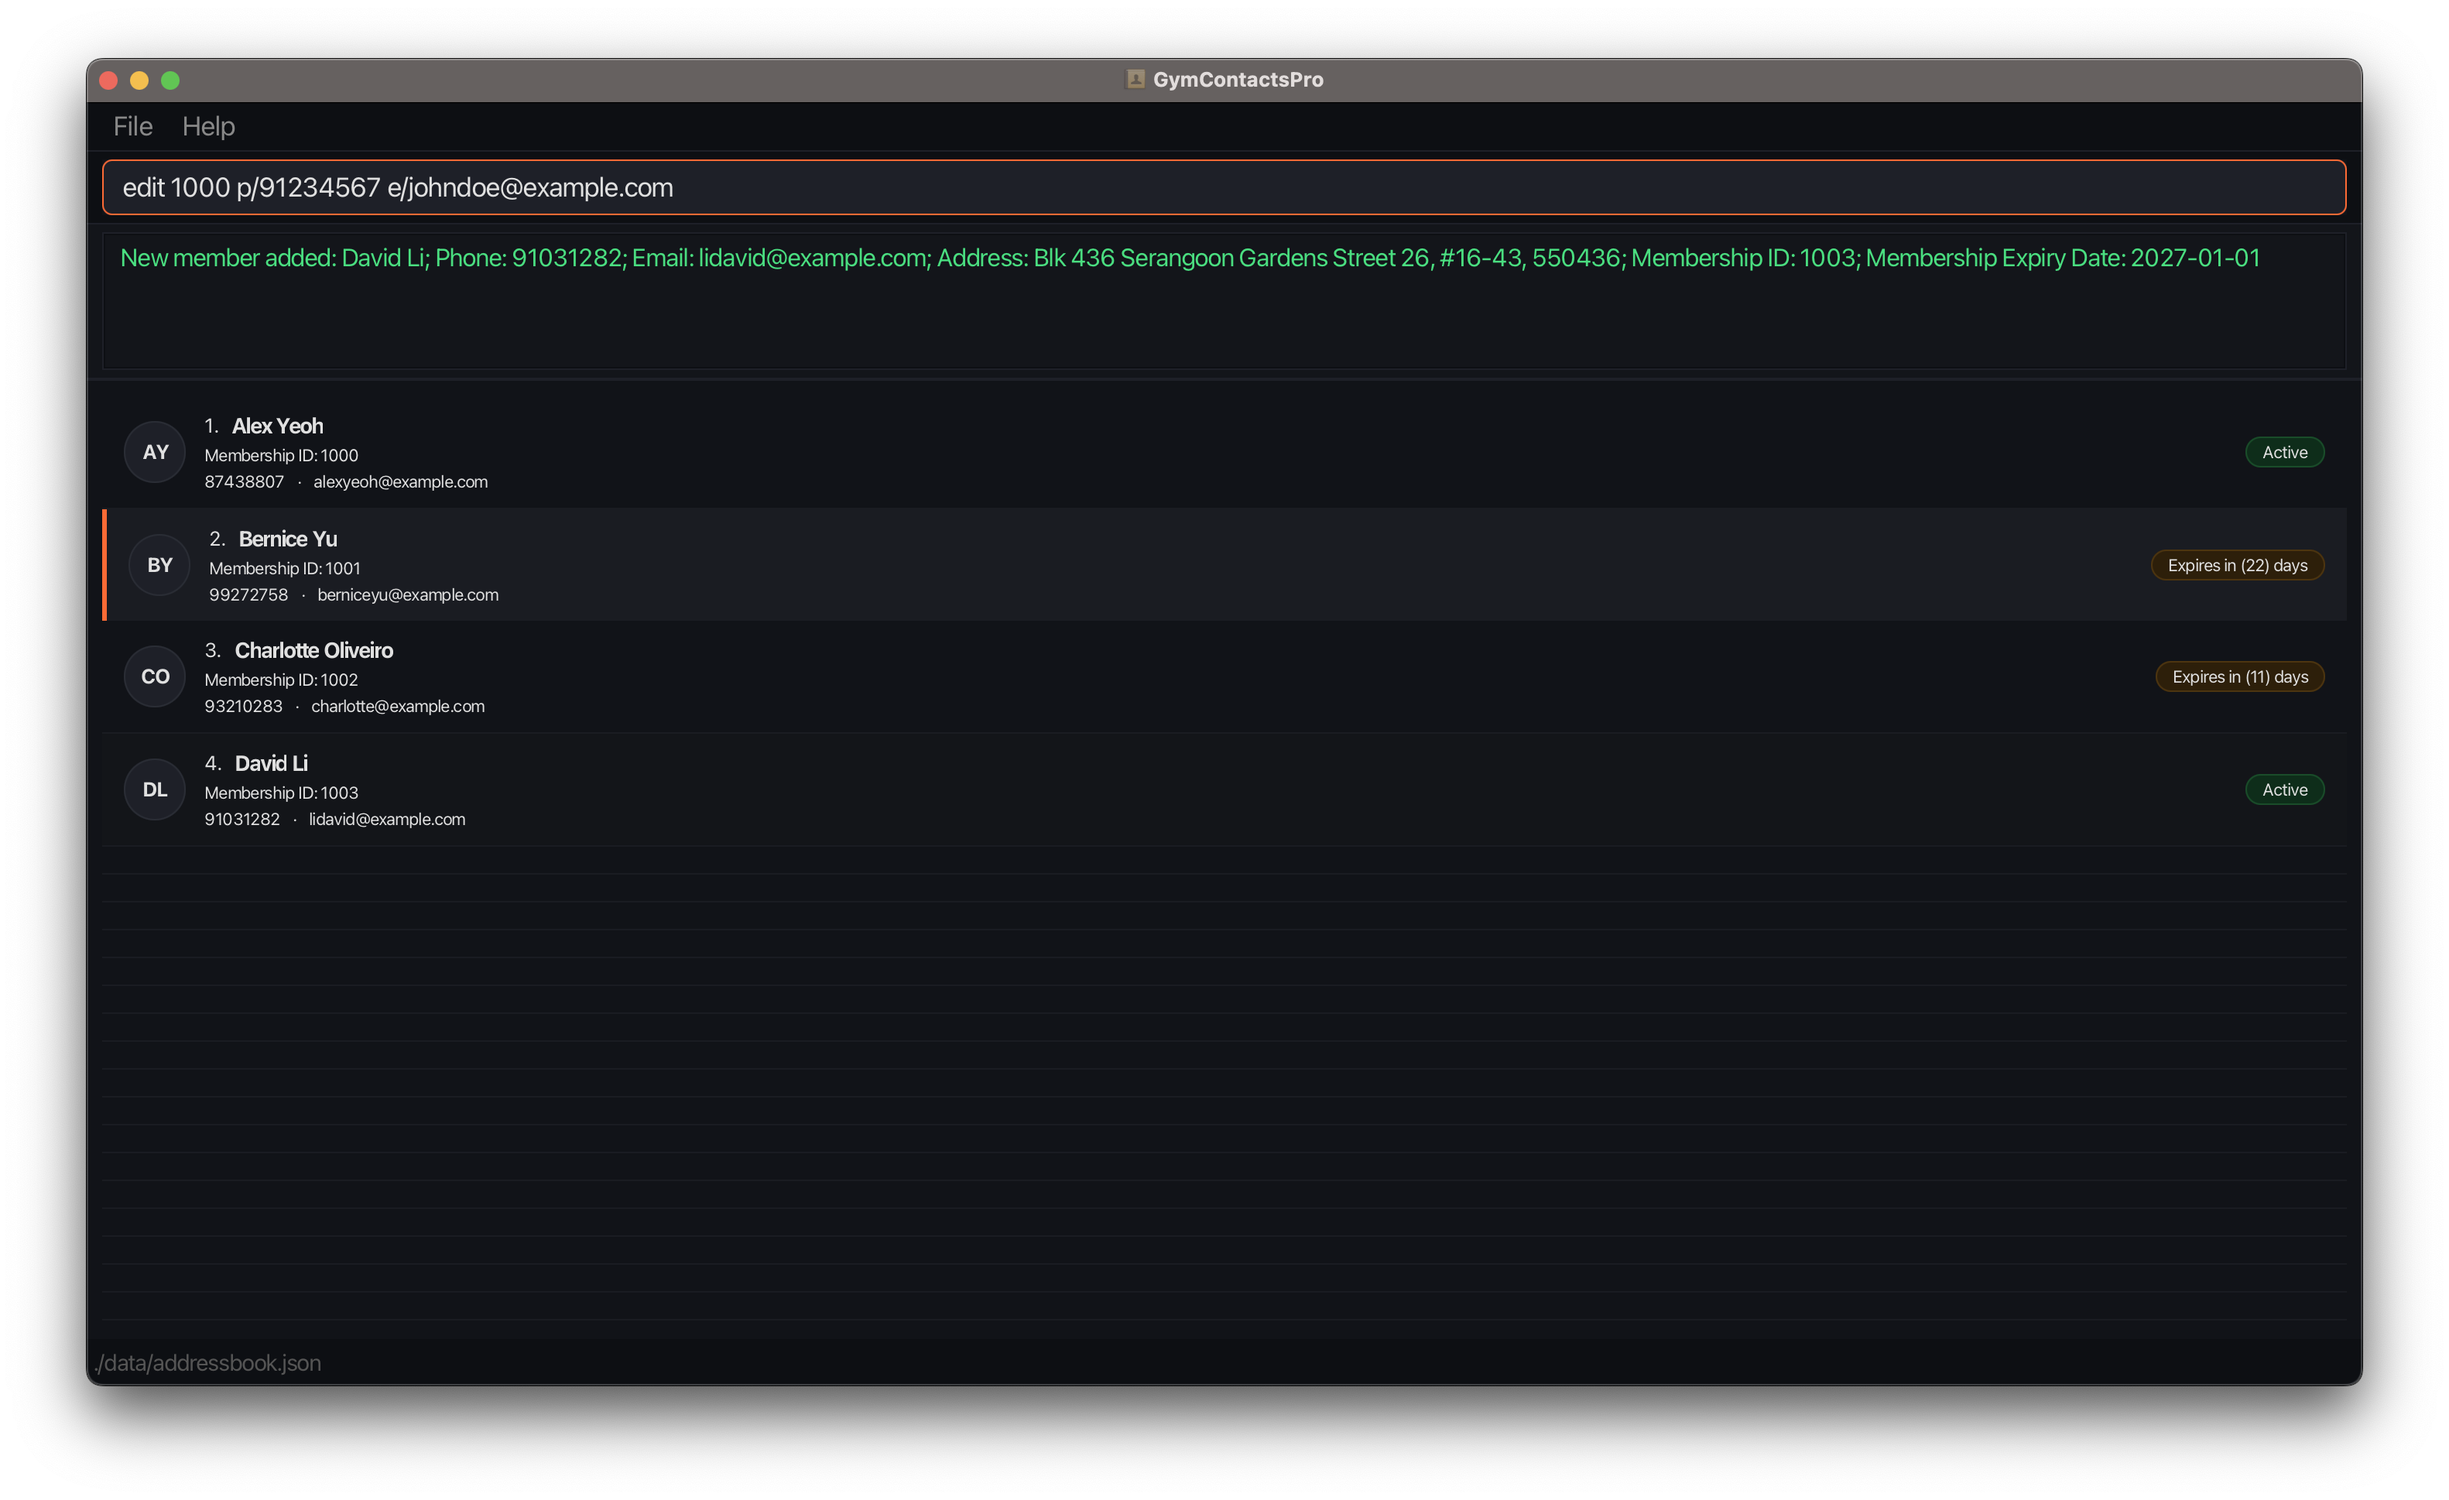
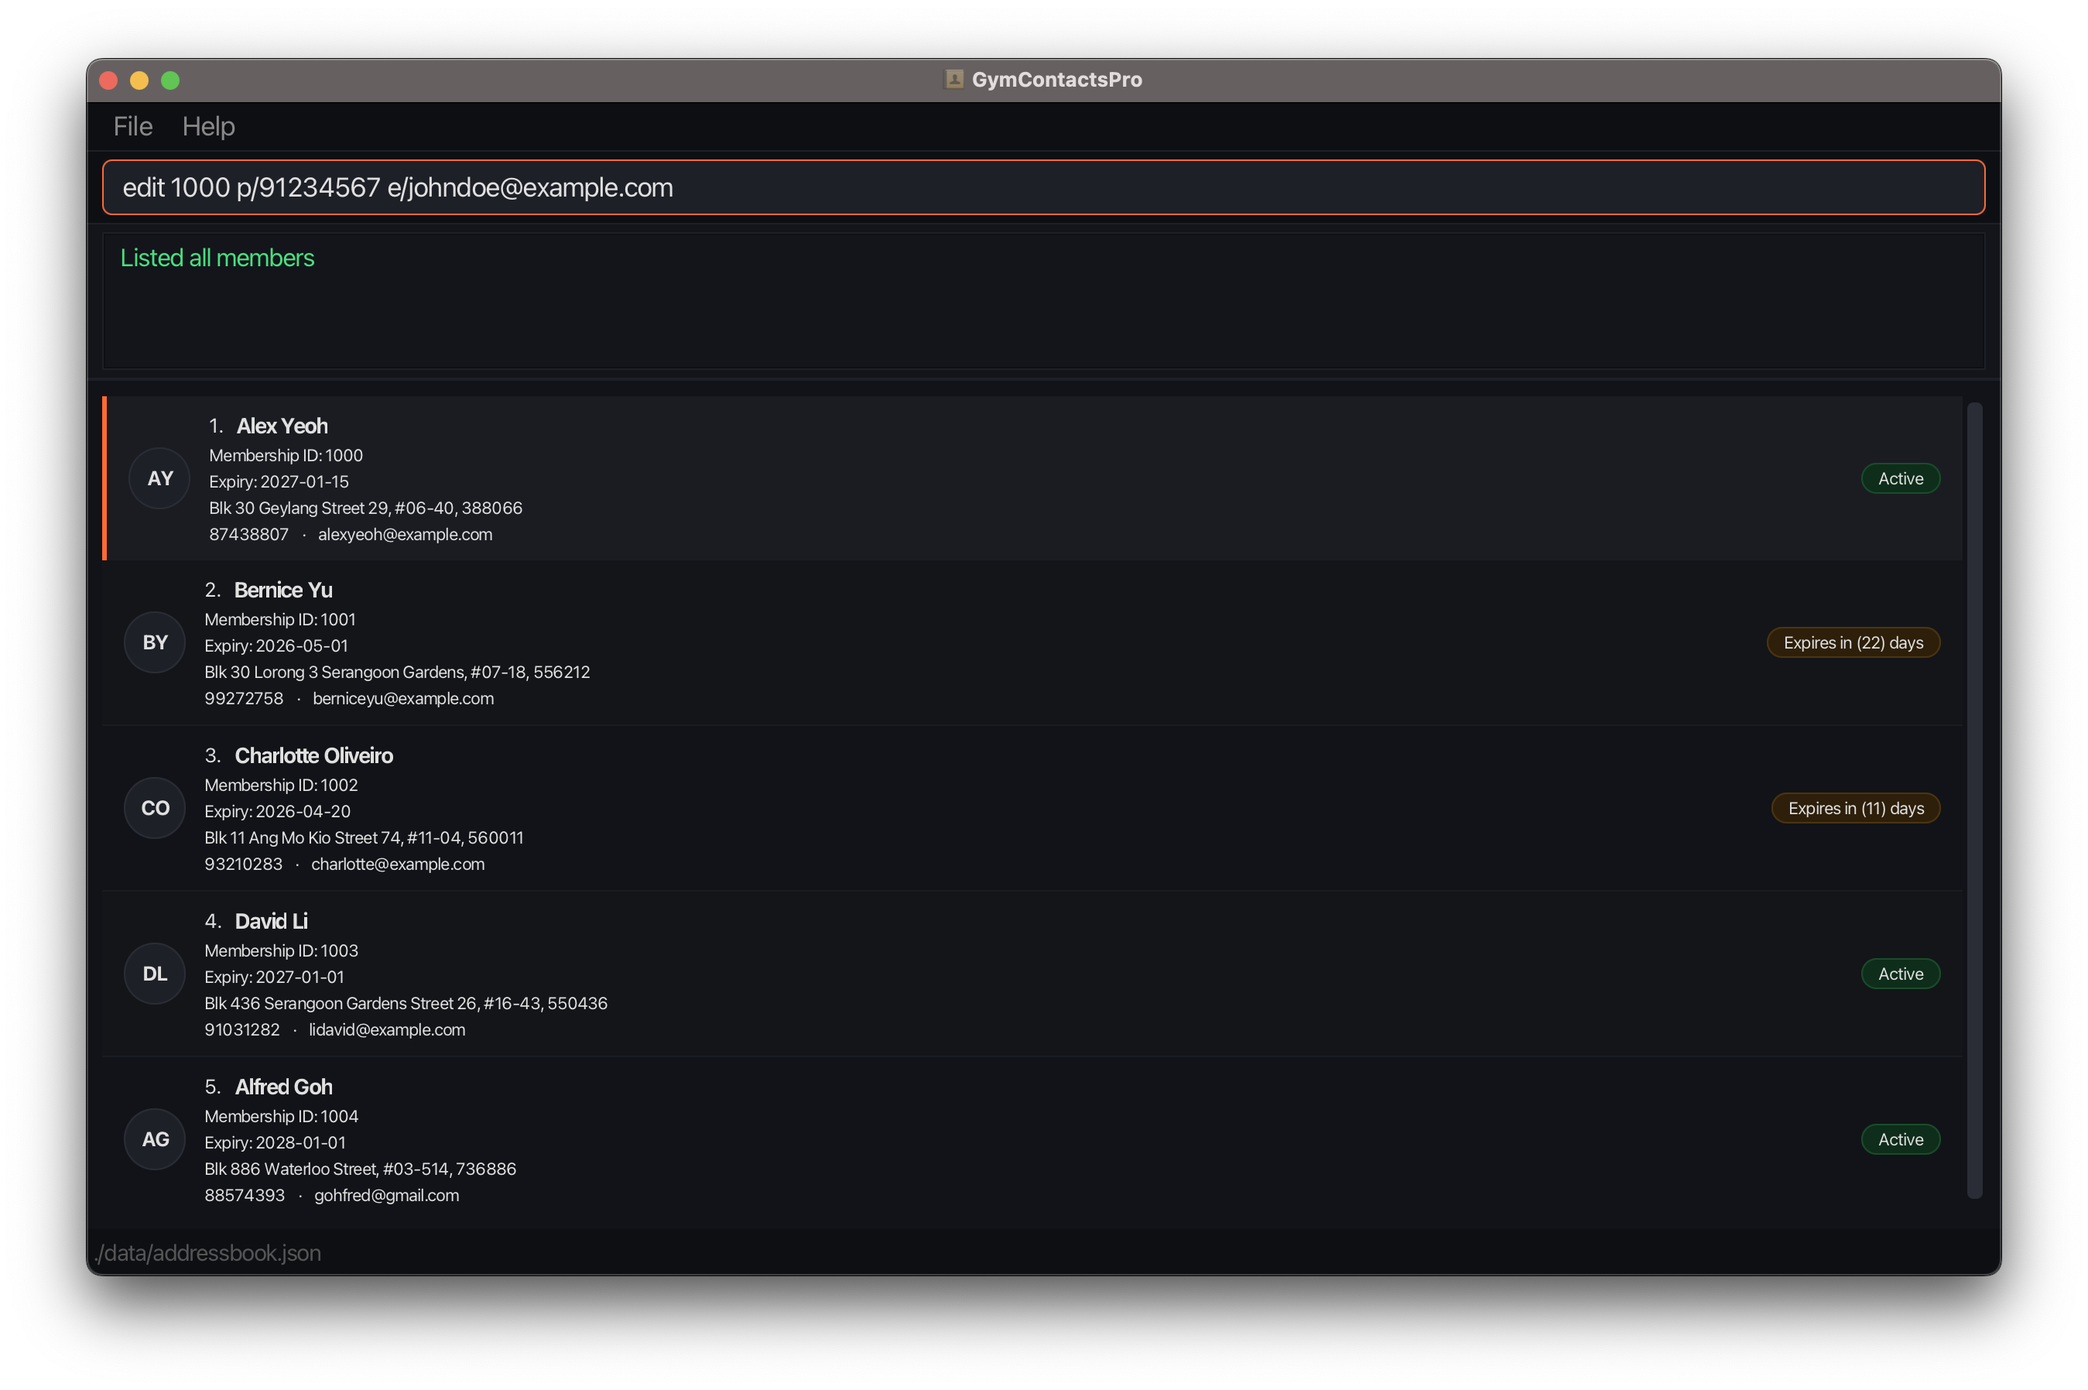
Added Address, Added Expiry Date, Changed Color of Error Messages

Changed region(s): [[0.0311, 0.0312, 0.9652, 0.9666], [0.0934, 0.6548, 0.2802, 0.7483]]

diff --git a/src/main/resources/view/DarkTheme.css b/src/main/resources/view/DarkTheme.css
@@ -404,11 +404,11 @@
     -fx-background-color: transparent;
     -fx-font-family: "Consolas", "Segoe UI Light", monospace;
     -fx-font-size: 12pt;
-    -fx-text-fill: #4ade80;
+    -fx-text-fill: #888888;
 }
 
 .result-display .label {
-    -fx-text-fill: #4ade80 !important;
+    -fx-text-fill: #888888 !important;
 }
 .avatar-circle {
     -fx-background-color: #1e2028;
@@ -553,5 +553,15 @@
 }
 .menu-item:focused {
     -fx-background-color: #1e2028;
+}
+.result-display-error {
+    -fx-text-fill: #f87171 !important;
+}
+.result-display-success {
+    -fx-text-fill: #4ade80;
+}
+
+.result-display-error {
+    -fx-text-fill: #f87171;
 }
 

diff --git a/src/main/java/seedu/address/ui/ResultDisplay.java b/src/main/java/seedu/address/ui/ResultDisplay.java
@@ -32,6 +32,26 @@ public class ResultDisplay extends UiPart<Region> {
     public void setFeedbackToUser(String feedbackToUser) {
         requireNonNull(feedbackToUser);
         resultDisplay.setText(feedbackToUser);
-    }
 
+        boolean isError = feedbackToUser.startsWith("Invalid")
+            || feedbackToUser.startsWith("Unknown")
+            || feedbackToUser.startsWith("Error")
+            || feedbackToUser.startsWith("No ")
+            || feedbackToUser.contains("is not a valid")
+            || feedbackToUser.contains("should be")
+            || feedbackToUser.contains("cannot")
+            || feedbackToUser.contains("does not exist");
+
+        if (isError) {
+            resultDisplay.getStyleClass().remove("result-display-success");
+            if (!resultDisplay.getStyleClass().contains("result-display-error")) {
+                resultDisplay.getStyleClass().add("result-display-error");
+            }
+        } else {
+            resultDisplay.getStyleClass().remove("result-display-error");
+            if (!resultDisplay.getStyleClass().contains("result-display-success")) {
+                resultDisplay.getStyleClass().add("result-display-success");
+            }
+        }
+    }
 }

diff --git a/src/main/java/seedu/address/ui/PersonCard.java b/src/main/java/seedu/address/ui/PersonCard.java
@@ -61,12 +61,8 @@ public class PersonCard extends UiPart<Region> {
         phone.setText(person.getPhone().value);
         email.setText(person.getEmail().value);
         membershipId.setText("Membership ID: " + person.getMembershipId().value);
-        if (address != null) {
-            address.setText(person.getAddress().value);
-        }
-        if (membershipExpiryDate != null) {
-            membershipExpiryDate.setText("Membership Expiry: " + person.getMembershipExpiryDate().toString());
-        }
+        address.setText(person.getAddress().value);
+        membershipExpiryDate.setText("Expiry: " + person.getMembershipExpiryDate().toString());
 
         updateStatusLabel();
         setupAutoStatusUpdate();
